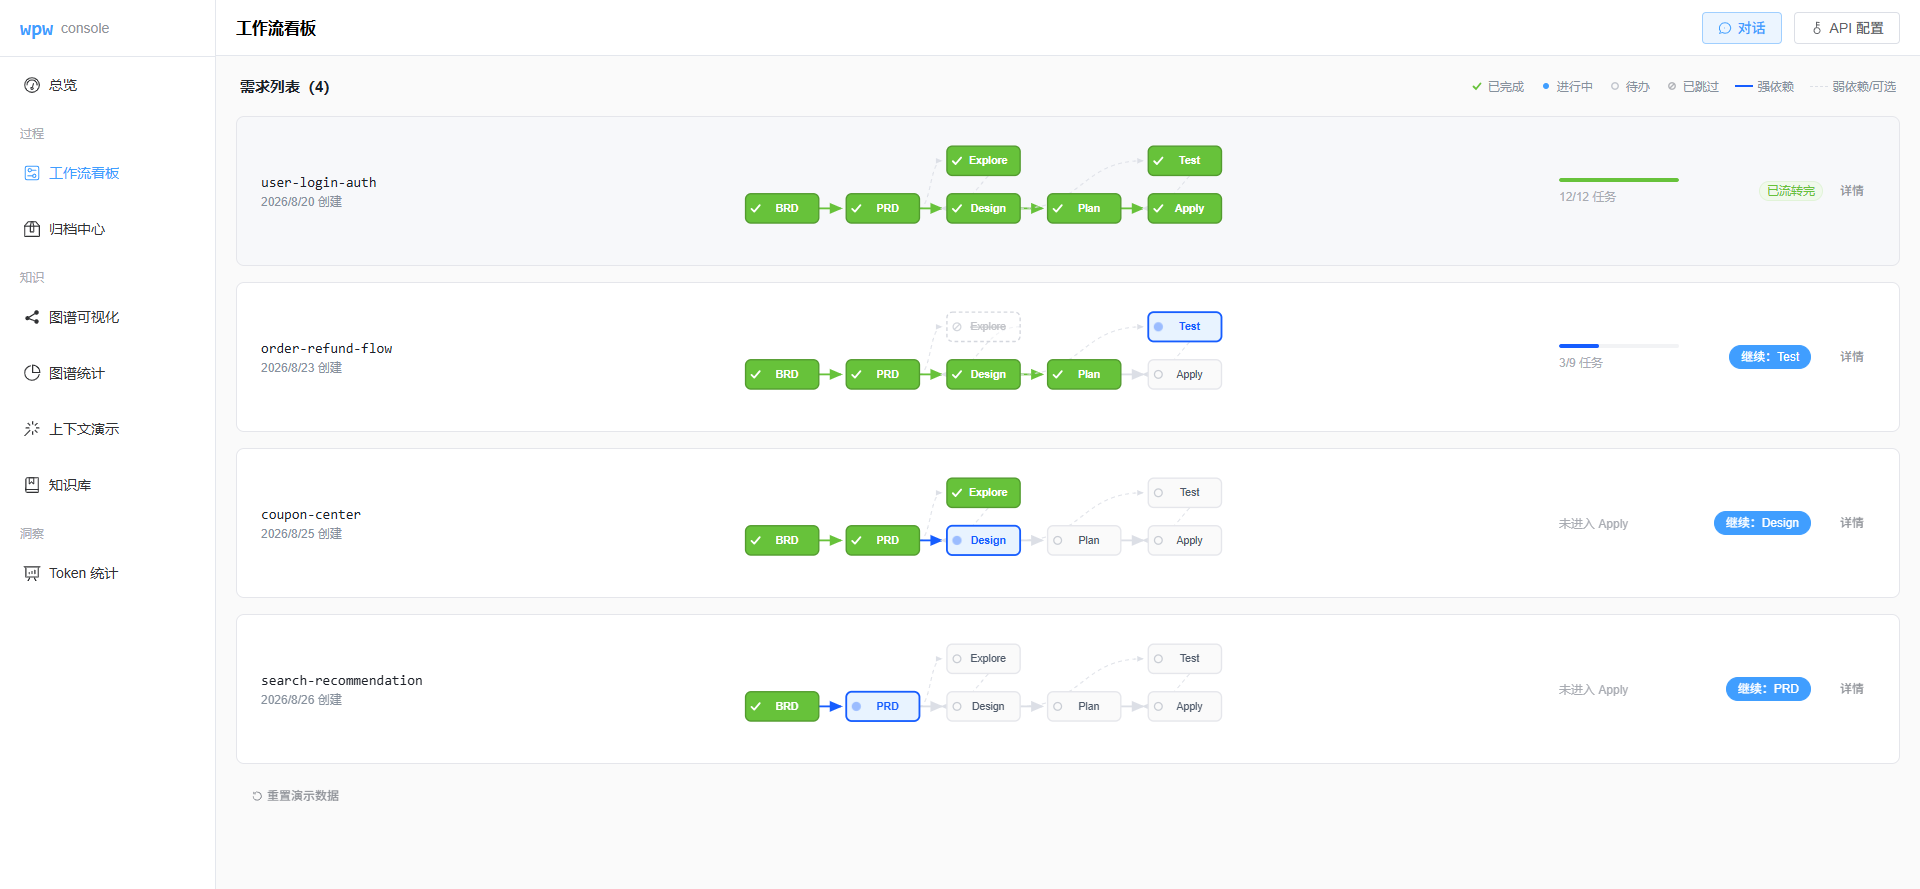
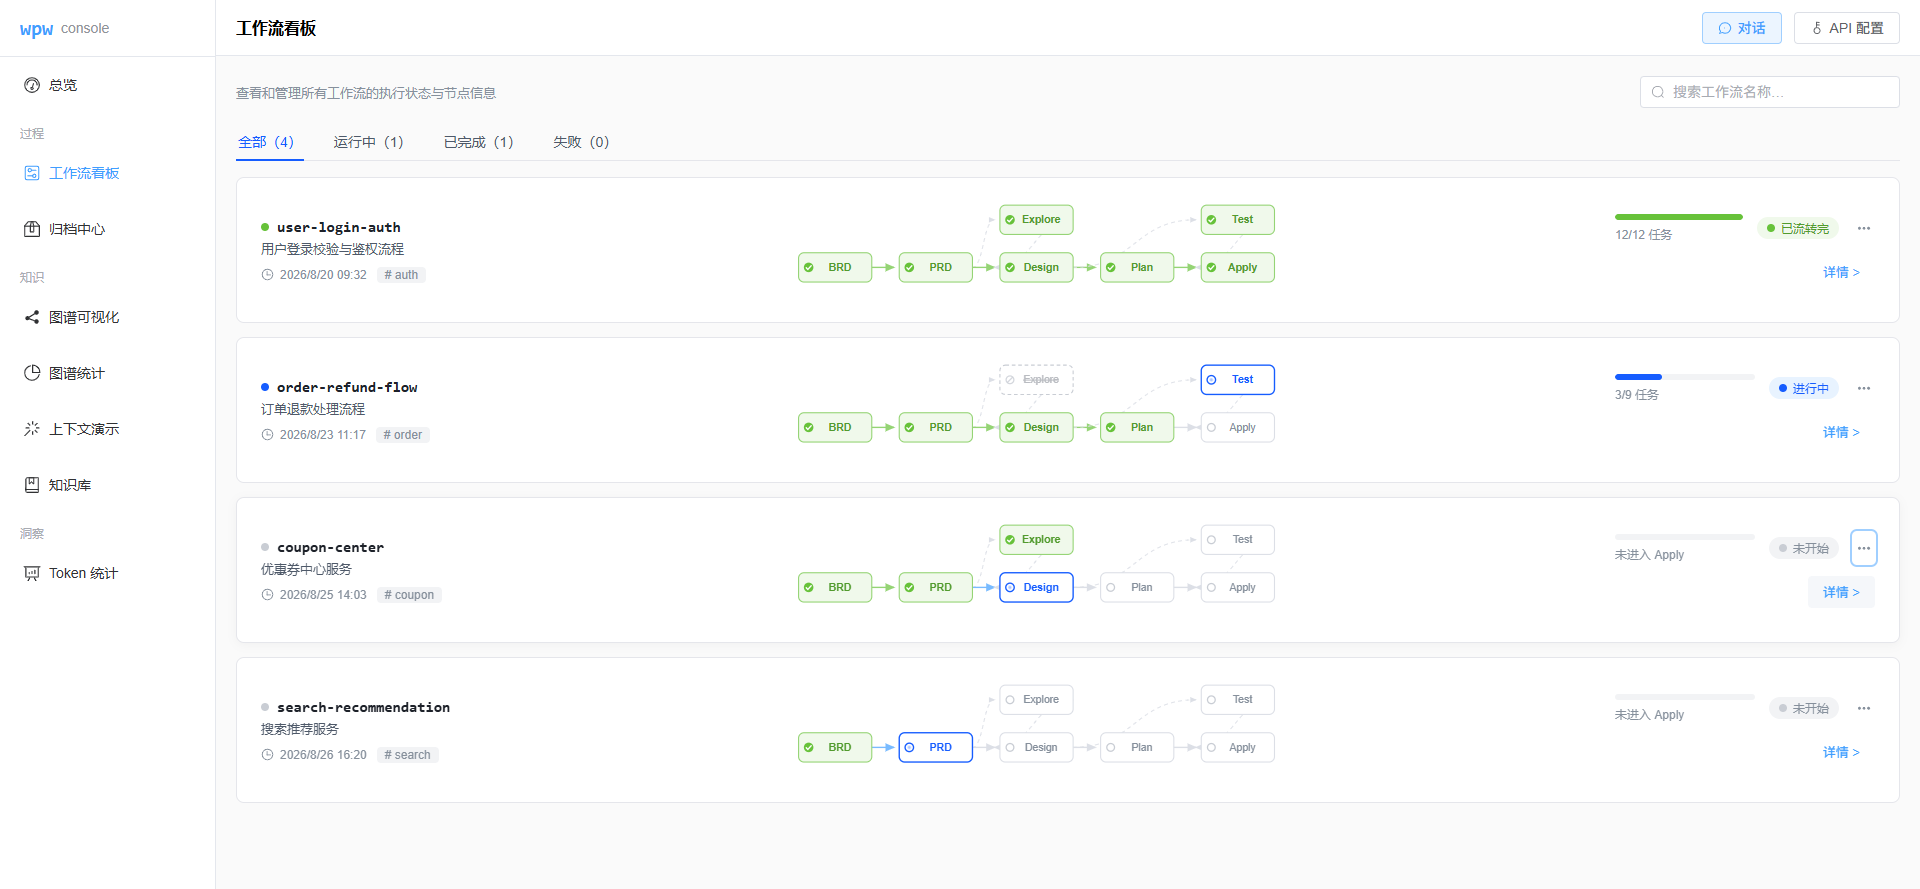
前端页面提交

diff --git a/viz/src/views/WorkflowBoard.vue b/viz/src/views/WorkflowBoard.vue
@@ -1,11 +1,8 @@
 <template>
   <div>
-    <!-- 页头：标题 + 副标题 + 搜索 -->
+    <!-- 页头：副标题 + 搜索 -->
     <div class="page-head">
-      <div>
-        <div class="page-title">工作流看板</div>
-        <div class="page-sub">查看和管理所有工作流的执行状态与节点信息</div>
-      </div>
+      <div class="page-sub">查看和管理所有工作流的执行状态与节点信息</div>
       <el-input
         v-model="keyword"
         class="search-input"
@@ -166,12 +163,11 @@ const detailVisible = ref(false)
 
 const labelOf = (id: string) => PHASE_DEFS.find((p) => p.id === id)?.label ?? id
 
-/** 需求整体状态：全部流转完 → finished；已有阶段推进 → running；未启动 → pending（失败态暂无来源，恒 0） */
+/** 需求整体状态：apply 流转完 → finished；已进入实施（有任务进度）→ running；否则未启动（失败态暂无来源，恒 0） */
 function statusOf(c: ChangeItem): 'finished' | 'running' | 'pending' {
-  const states = Object.values(c.phases)
-  const started = states.some((s) => s === 'done' || s === 'skipped')
-  if (!store.nextActionable(c) && c.phases.apply === 'done') return 'finished'
-  return started ? 'running' : 'pending'
+  if (c.phases.apply === 'done' && !store.nextActionable(c)) return 'finished'
+  if (c.tasks.total > 0 && c.tasks.done < c.tasks.total) return 'running'
+  return 'pending'
 }
 
 const statusText = (c: ChangeItem) => ({ finished: '已流转完', running: '进行中', pending: '未开始' })[statusOf(c)]
@@ -180,7 +176,7 @@ const tabs = computed(() => {
   const list = store.changes.value
   return [
     { key: 'all' as const, label: '全部', count: list.length },
-    { key: 'running' as const, label: '运行中', count: list.filter((c) => statusOf(c) !== 'finished').length },
+    { key: 'running' as const, label: '运行中', count: list.filter((c) => statusOf(c) === 'running').length },
     { key: 'finished' as const, label: '已完成', count: list.filter((c) => statusOf(c) === 'finished').length },
     { key: 'failed' as const, label: '失败', count: 0 },
   ]
@@ -188,7 +184,7 @@ const tabs = computed(() => {
 
 const filtered = computed(() => {
   let list = store.changes.value
-  if (activeTab.value === 'running') list = list.filter((c) => statusOf(c) !== 'finished')
+  if (activeTab.value === 'running') list = list.filter((c) => statusOf(c) === 'running')
   else if (activeTab.value === 'finished') list = list.filter((c) => statusOf(c) === 'finished')
   else if (activeTab.value === 'failed') list = []
   const kw = keyword.value.trim().toLowerCase()
@@ -230,11 +226,10 @@ onMounted(() => store.load())
 .page-head {
   display: flex;
   justify-content: space-between;
-  align-items: flex-start;
+  align-items: center;
   margin-bottom: 16px;
 }
-.page-title { font-size: 20px; font-weight: 600; color: #1d2129; }
-.page-sub { font-size: 13px; color: #86909c; margin-top: 4px; }
+.page-sub { font-size: 13px; color: #86909c; }
 .search-input { width: 260px; }
 
 /* 状态页签 */
